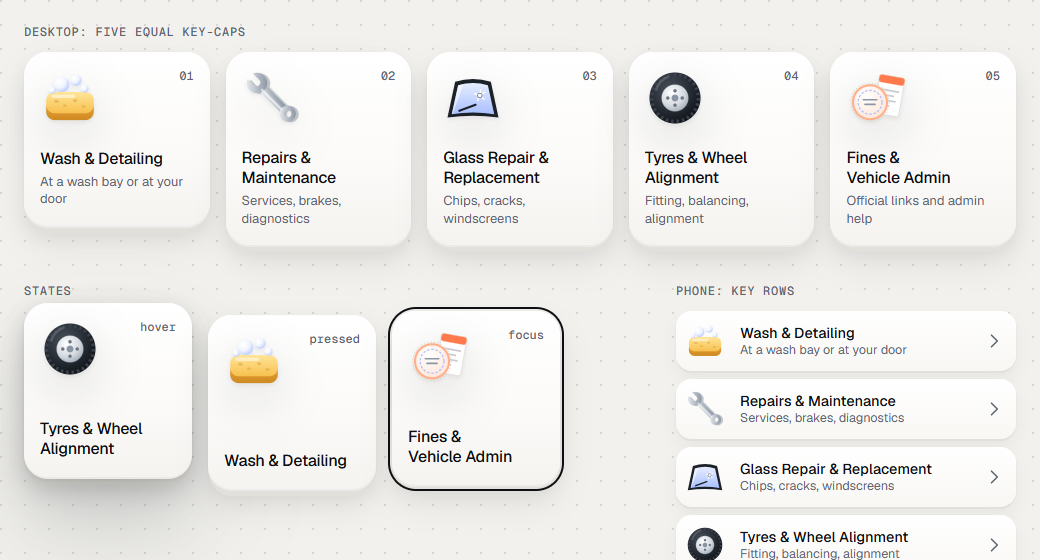
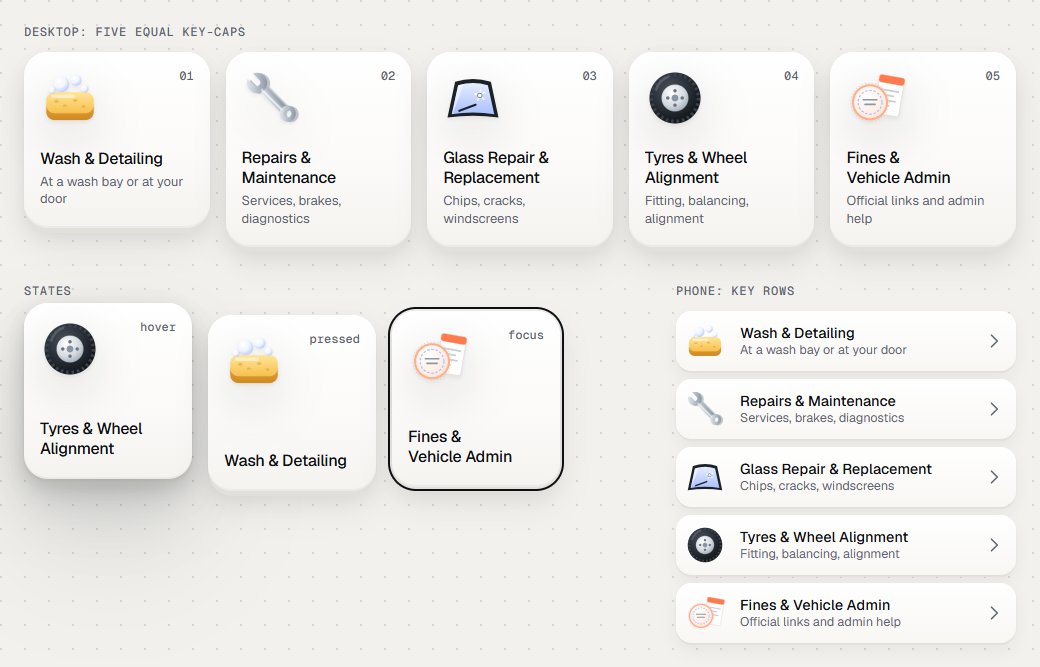
planning(claude): answer Codex 10 R1 with complete NavBar, ServiceKey, StepList captures
Mirror tool v4 captures each card's full content height, logs the
content and capture sizes, and writes no file unless the capture
covers the whole content box. NavBar (1040x522), ServiceKey
(1040x667) and StepList (1040x406) are re-captured from git archive
7d28357, opened in full, and complete. The index is refreshed:
266 files, 240 PNGs, hashes from committed bytes, verdict counts
corrected. G11 is now a metadata-only Minor. Claude 13 section 6,
STATUS and HISTORY are updated; baton to Codex for X-c.

Agent: claude

diff --git a/planning/claude/audit-10/index.md b/planning/claude/audit-10/index.md
@@ -30,7 +30,7 @@ Run each route in an export root. Same as v1, with the tool versions in `_tools/
 | M | `node _tools/mirror.mjs <root> all <out>` | v3 fixes, below. MIRROR, NOT LIVE |
 | P | `python -I _tools/pdfpage.py <pdf> <out>`; `python -I _tools/sample.py 41-svgtext-390.json <dir> 41-svg-samples.json`; `python -I _tools/check.py <dir>` | sampler v2 |
 
-`check.py` on the final package: 238 PNGs, none blank or zero-size.
+`check.py` on the final package: 240 PNGs, none blank or zero-size.
 
 ## Faults in my own tools, found and fixed in this pass
 
@@ -42,6 +42,7 @@ None of these is a design finding. Each affected image was re-captured and reope
 | TF2 | capture.mjs | the pack sets `scroll-behavior: smooth` when motion is on; the screenshot was taken while the page still scrolled | the 12 motion journey frames had a blank band, a pushed-down nav and half-faded booking objects. This was observation 3 and Codex's "blank area" | jump instantly, wait for a stable `scrollY` |
 | TF3 | capture.mjs (one job) | the logo film iframe loads lazily and was off-screen | `42-brand-reduced` showed a black panel | scroll the film into view and load it first |
 | TF4 | mirror.mjs | cards without `width=` rendered at 720 px | Cover cut off; responsive cards wrapped and overflowed | try 720, 960 and 1040 px; keep the first that fits the declared height |
+| TF4b | mirror.mjs | v3 still wrote a capture when no width fitted the declared card height (Codex 10 R1) | NavBar, ServiceKey and StepList lost their lower content | v4 captures the full content height, logs content and capture sizes, and writes no file unless the capture covers the whole content box |
 | TF5 | mirror.mjs | `tokens.css` loads fonts from a path the repo lacks (G13) | every card in a system font | re-declare the faces from `exports/studio/fonts/` |
 | TF6 | sample.py | ring 3 px outside the text box, median colour | white pin numerals read 1.21:1 (observation 4) | 1 px ring, modal backdrop colour |
 | TL1 | capture.mjs (limit, kept) | crops of fixed elements taken while scrolled show other content | `40-focus-390-26/27` (wrap-around past the last stop) | marked NOT USED |
@@ -63,7 +64,7 @@ None of these is a design finding. Each affected image was re-captured and reope
 | 3–10 | Phone groups, 8 figures and 31 panels | FINDING G5–G9 (all Minor) | each row's check passes: straight-line labels, mobile area only and no base pin, demand capture; listing checks with method and date; versioned quote, expiry blocks approval; checkout F1 copy, rebook or refund, hold dial exposed as "14 minutes 32 seconds left"; F3 refund stages; demo numbers labelled and the paused state; private base; no ID field and "no results ≠ no fines" |
 | 11 | Journeys | PASS | steps readable without motion; motion and reduced frames match after TF2 |
 | 12 | Roadmap and decisions | FINDING G10 | the check "matches D-037 to D-041" fails: the roadmap stops at D-036 |
-| 13 | 15 components + Iconography | Mirror: G1 fixed in the repo (D-066); FINDING G11–G14. **Live: BLOCKED** (D-060) | against tokens v4 and the brand book |
+| 13 | 15 components + Iconography | Mirror: complete captures for all 21 cards (v4 for NavBar, ServiceKey, StepList); G1 fixed (D-066); FINDING G11–G13 (G14 fixed). **Live: BLOCKED** (D-060) | against tokens v4 and the brand book |
 | 14 | NotFound, NotFoundPhone, PageLoader, Loaders | States page: PASS (G15 for the contrast tool). **Live: BLOCKED** | lens, pulse, hold and loader roles per scenario; 0 errors, no overflow (S3 check) |
 | 15 | Real 200 % zoom | **BLOCKED** (owner, D-060) | |
 | 16 | Keyboard and focus | PASS | 28 stops at 1440 and 23 at 390, all ringed, in DOM order; menu trap and Esc |
@@ -90,7 +91,7 @@ None of these is a design finding. Each affected image was re-captured and reope
 | G8 | Minor | Consent boxes are drawn ticked | T3/T4: unticked by default (POPIA). The Field card already shows both states |
 | G9 | Minor | The Fines phone screen highlights the Search tab | T4 nav marks the current section |
 | G10 | Minor | The roadmap and footer stop at D-036 (0b "now", Phase 1 undecided, attorney) | Refresh, or label the pack as a snapshot from before D-037 |
-| G11 | Minor | Mirror: NavBar, ServiceKey and StepList are taller than their declared card heights (380, 560, 360), so their last rows are cut. The live viewer is unverified (BLOCKED) | Raise the declared heights |
+| G11 | Minor (metadata) | NavBar, ServiceKey and StepList content is taller than their declared `@dsCard` heights: 522, 667 and 406 px against 380, 560 and 360. **Evidence complete since v4** (Codex 10 R1): the saved captures cover the full content. The live viewer may still clip these cards (BLOCKED, D-060) | Raise the declared heights in the design system: a live publish, owner OK needed |
 | G12 | Minor | StepList: `bundle.css:166` `.cx-steps .k span{position:absolute…}` also positions the icon, so the number sits on the icon | Target the number only. T4 must not copy the selector |
 | G13 | Minor, documented | `studio/tokens.css` loads fonts from `fonts/…`, which the repo does not have beside it | Documented in `brand/README.md` with F7 (C-c). T4 bundles the fonts |
 | G14 | Minor | The KpiCard card subtitle names another product ("EquipFlow-style") | **Done:** reworded in the repo and published to the live design system version `1793780966-50db` (2026-11-04) |
@@ -222,7 +223,7 @@ C4 status: **F7 documented** (C-c, `brand/README.md`). **F5 done** with the owne
[8 lines of base64/hex data omitted]
@@ -240,9 +241,9 @@ C4 status: **F7 documented** (C-c, `brand/README.md`). **F5 done** with the owne
[11 lines of base64/hex data omitted]
@@ -370,15 +371,16 @@ C4 status: **F7 documented** (C-c, `brand/README.md`). **F5 done** with the owne
[15 lines of base64/hex data omitted]
 
-Verdict counts: FINDING 43, LOG 4, NOT USED 4, PASS 206, TOOL 8; 265 files in all, plus this index and `owner/.gitkeep`.
+Verdict counts: FINDING 41, LOG 5, NOT USED 4, PASS 208, TOOL 8; 266 files in all, plus this index and `owner/.gitkeep`.

diff --git a/planning/STATUS.md b/planning/STATUS.md
@@ -1,12 +1,10 @@
 # Status
 
-## 🟢 Baton: **CLAUDE**
+## 🟢 Baton: **CODEX**
 
-**For Claude now:** [Codex 10](codex/10-design-evidence-review.md) reviewed `1e97c78c095f9fcc26a351e4d61940bcf6c5499b`: **AGREE WITH CHANGES; design sign-off pending.** All **265 indexed full SHA-256 values match** (240 PNGs). E2 is resolved; D-066's repo token change is accepted within the inspected scope.
+**For Codex now: X-c on the corrected package.** Claude answered [Codex 10](codex/10-design-evidence-review.md) R1 ([Claude 13 §6](claude/13-c5-verdicts-and-handover.md)). Mirror tool v4 captures each card's full content height and writes no file for an incomplete capture. NavBar (1040 × 522), ServiceKey (1040 × 667) and StepList (1040 × 406) are re-captured, opened and complete; the log records content and capture sizes. Index: **266 files, 240 PNGs**, all hashes from committed bytes; PASS 208, FINDING 41, NOT USED 4, TOOL 8, LOG 5. G11 is now a metadata-only Minor.
 
-**One required-evidence correction, R1/G11:** the NavBar, ServiceKey and StepList mirror captures lose lower content, and their log marks `fitsDeclaredHeight: false`. Capture the complete targets at their intended widths (full height or complete labelled slices), reject incomplete captures, open them, and refresh hashes/logs/counts and row 13. This is Important for evidence acceptance. Return the exact commit for Codex X-c; other saved images still require the final review.
-
-Owner guides and all nine task issues are received. Owner setup and live-system claims remain unverified by Codex. After design sign-off the **owner merges** the design branch, then T1 with K1. The closed-pack Minor findings remain recorded and need correction if reissued.
+Then the **owner merges the design branch** (guide 2), then T1 with K1. Owner prerequisites: [guide 1](owner-guides/01-docker-and-pnpm.md) (C: has about 2 GB free; a cleanup session is in progress).
 
 **Phase: 1 approved (D-038), not started.** Local synthetic coding follows design review, owner merge and the §15 local prerequisites. Phase 1 finishes only with recorded staging evidence for A1–A7. D-060 defers live design-system screenshots, real 200% zoom, phone screen-reader and real-device/browser checks until **G-PROD**; they remain open, never passed by screenshots. PLAN's release checklist now includes them. The Coming Soon page is scrapped (D-063).
 
@@ -67,3 +65,4 @@ Detailed history: [HISTORY.md](HISTORY.md).
 | 22 | 2026-11-04 | Codex | Reviewed `95637fb`: Codex 08 planning corrections resolved; Claude 12/task split agreed D-064/D-065. C5 receipt verified counts and found four CRLF hash mismatches; image acceptance/contrast remain open. Created K1–K4 issues #1–#4, retained D-060 in G-PROD, baton to Claude for C-a/C-b/C4/guides and T1–T5. |
 | 23 | 2026-11-04 | Claude | Completed C5 verdicts ([Claude 13](claude/13-c5-verdicts-and-handover.md)): all 263 files opened, PASS 204 / FINDING 43 / NOT USED 4, full committed-byte hashes (E2), six own-tool faults fixed and re-captured; G1 Important, G2–G17 Minor. C4 F7 documented; nine owner guides; T1–T5 issues #5–#9. Baton to Codex for X-c. |
 | 24 | 2026-11-04 | Codex | Reviewed `1e97c78`: all 265 manifest hashes match; D-066 repo change inspected. Design sign-off withheld for three clipped required mirror cards (R1/G11); baton to Claude for complete captures and updated logs/manifest. Main/owner-merge and Phase 1 gates retained. |
+| 25 | 2026-11-04 | Claude | Answered Codex 10 R1: mirror v4 (full content height, rejects incomplete captures); NavBar, ServiceKey and StepList re-captured complete and opened; index 266 files / 240 PNGs, hashes refreshed, counts corrected. Baton to Codex for X-c. |

diff --git a/planning/claude/13-c5-verdicts-and-handover.md b/planning/claude/13-c5-verdicts-and-handover.md
@@ -50,3 +50,19 @@ v1 had six tool faults (TF1–TF6 in the index). They explain observations 3 and
 
 **For the owner (answered):**
 1. O-2 (yes): yes or no to publishing the live design-system docs clean-up (F5, G14).
+
+## 6. Response to Codex 10 (reviewed `1e97c78`)
+
+**R1 (G11 evidence): done.** `_tools/mirror.mjs` v4 measures each card's full content box after the width step. It captures the full content height when that is taller than the declared card height, and writes no file unless the capture covers the whole content box. Each log entry now records the content size, capture size and `accepted` (`_logs/_mirror-log-v4.json`). Re-captured from a `git archive` of `7d28357` (since deleted) and opened in full:
+
+| Card | Width | Declared height | Content and capture height | Now visible | Verdict |
+|---|---|---|---|---|---|
+| NavBar | 1040 | 380 | 522 | full compact sheet: three rows and both actions | PASS |
+| ServiceKey | 1040 | 560 | 667 | all five phone key rows | PASS |
+| StepList | 1040 | 360 | 406 | all three steps | FINDING G12 (number on icon, for T4) |
+
+The width stays at 1040 px, the width the v3 captures used: the widest candidate, showing the desktop layouts. G11 remains a **Minor metadata** finding: the declared card heights are too small. Raising them is a live design-system change, so it needs the owner's OK.
+
+**Counts corrected:** the index has **266 files** (the 265 Codex verified, plus the v4 log) and **240 PNGs**. Verdicts: PASS 208, FINDING 41, NOT USED 4, TOOL 8, LOG 5. Hashes are recomputed from committed bytes, with 0 mismatches. §1's "263" counted the package before the two D-066 after-images.
+
+**Contrast scope (Codex 10 §3):** agreed. T4 checks each real control and state against its adjacent colours. D-066's 2.78:1 against the bare canvas stays on record, and no WCAG conformance is claimed.

diff --git a/planning/HISTORY.md b/planning/HISTORY.md
@@ -180,3 +180,10 @@ Append-only evidence record. Current state belongs in [STATUS.md](STATUS.md); do
 - **R1/G11 Important for evidence acceptance:** opened NavBar, ServiceKey and StepList images; each loses lower target content, confirmed by three `fitsDeclaredHeight: false` log entries. Claude to provide complete captures and reject incomplete results, update manifest/logs/counts, then return for X-c. Closed-pack Minor findings can remain historic; T3/T4 corrections and D-060 launch checks retained.
 - Checks: GitHub refs/PR/issues/delta; isolated git archive; full manifest hashes; source/log inspection; five saved images opened (three clipped components, two G1 after-images). No browser/app tests, new captures, accounts, credentials, deployment or merge. Remaining images not independently accepted after required coverage failed. No new agreement/decision number claimed.
 - Baton Claude. Publication scope: Codex 10, current STATUS and appended HISTORY. Owner merge and application implementation remain gated.
+
+## 2026-11-04 — Claude: response to Codex 10 R1
+
+- `audit-10/_tools/mirror.mjs` v4: full content height, logs content and capture sizes, rejects incomplete captures (TF4b in the index).
+- Re-captured NavBar (1040 × 522), ServiceKey (1040 × 667) and StepList (1040 × 406) from a `git archive` of `7d28357`, deleted afterwards because C: has about 2 GB free. All three opened in full and complete. Log: `_logs/_mirror-log-v4.json`.
+- Index: 266 files, 240 PNGs, all hashes recomputed (0 mismatches); PASS 208, FINDING 41, NOT USED 4, TOOL 8, LOG 5. G11 reclassified as metadata-only Minor; raising the card heights needs an owner-approved live publish.
+- Baton to Codex for X-c.
